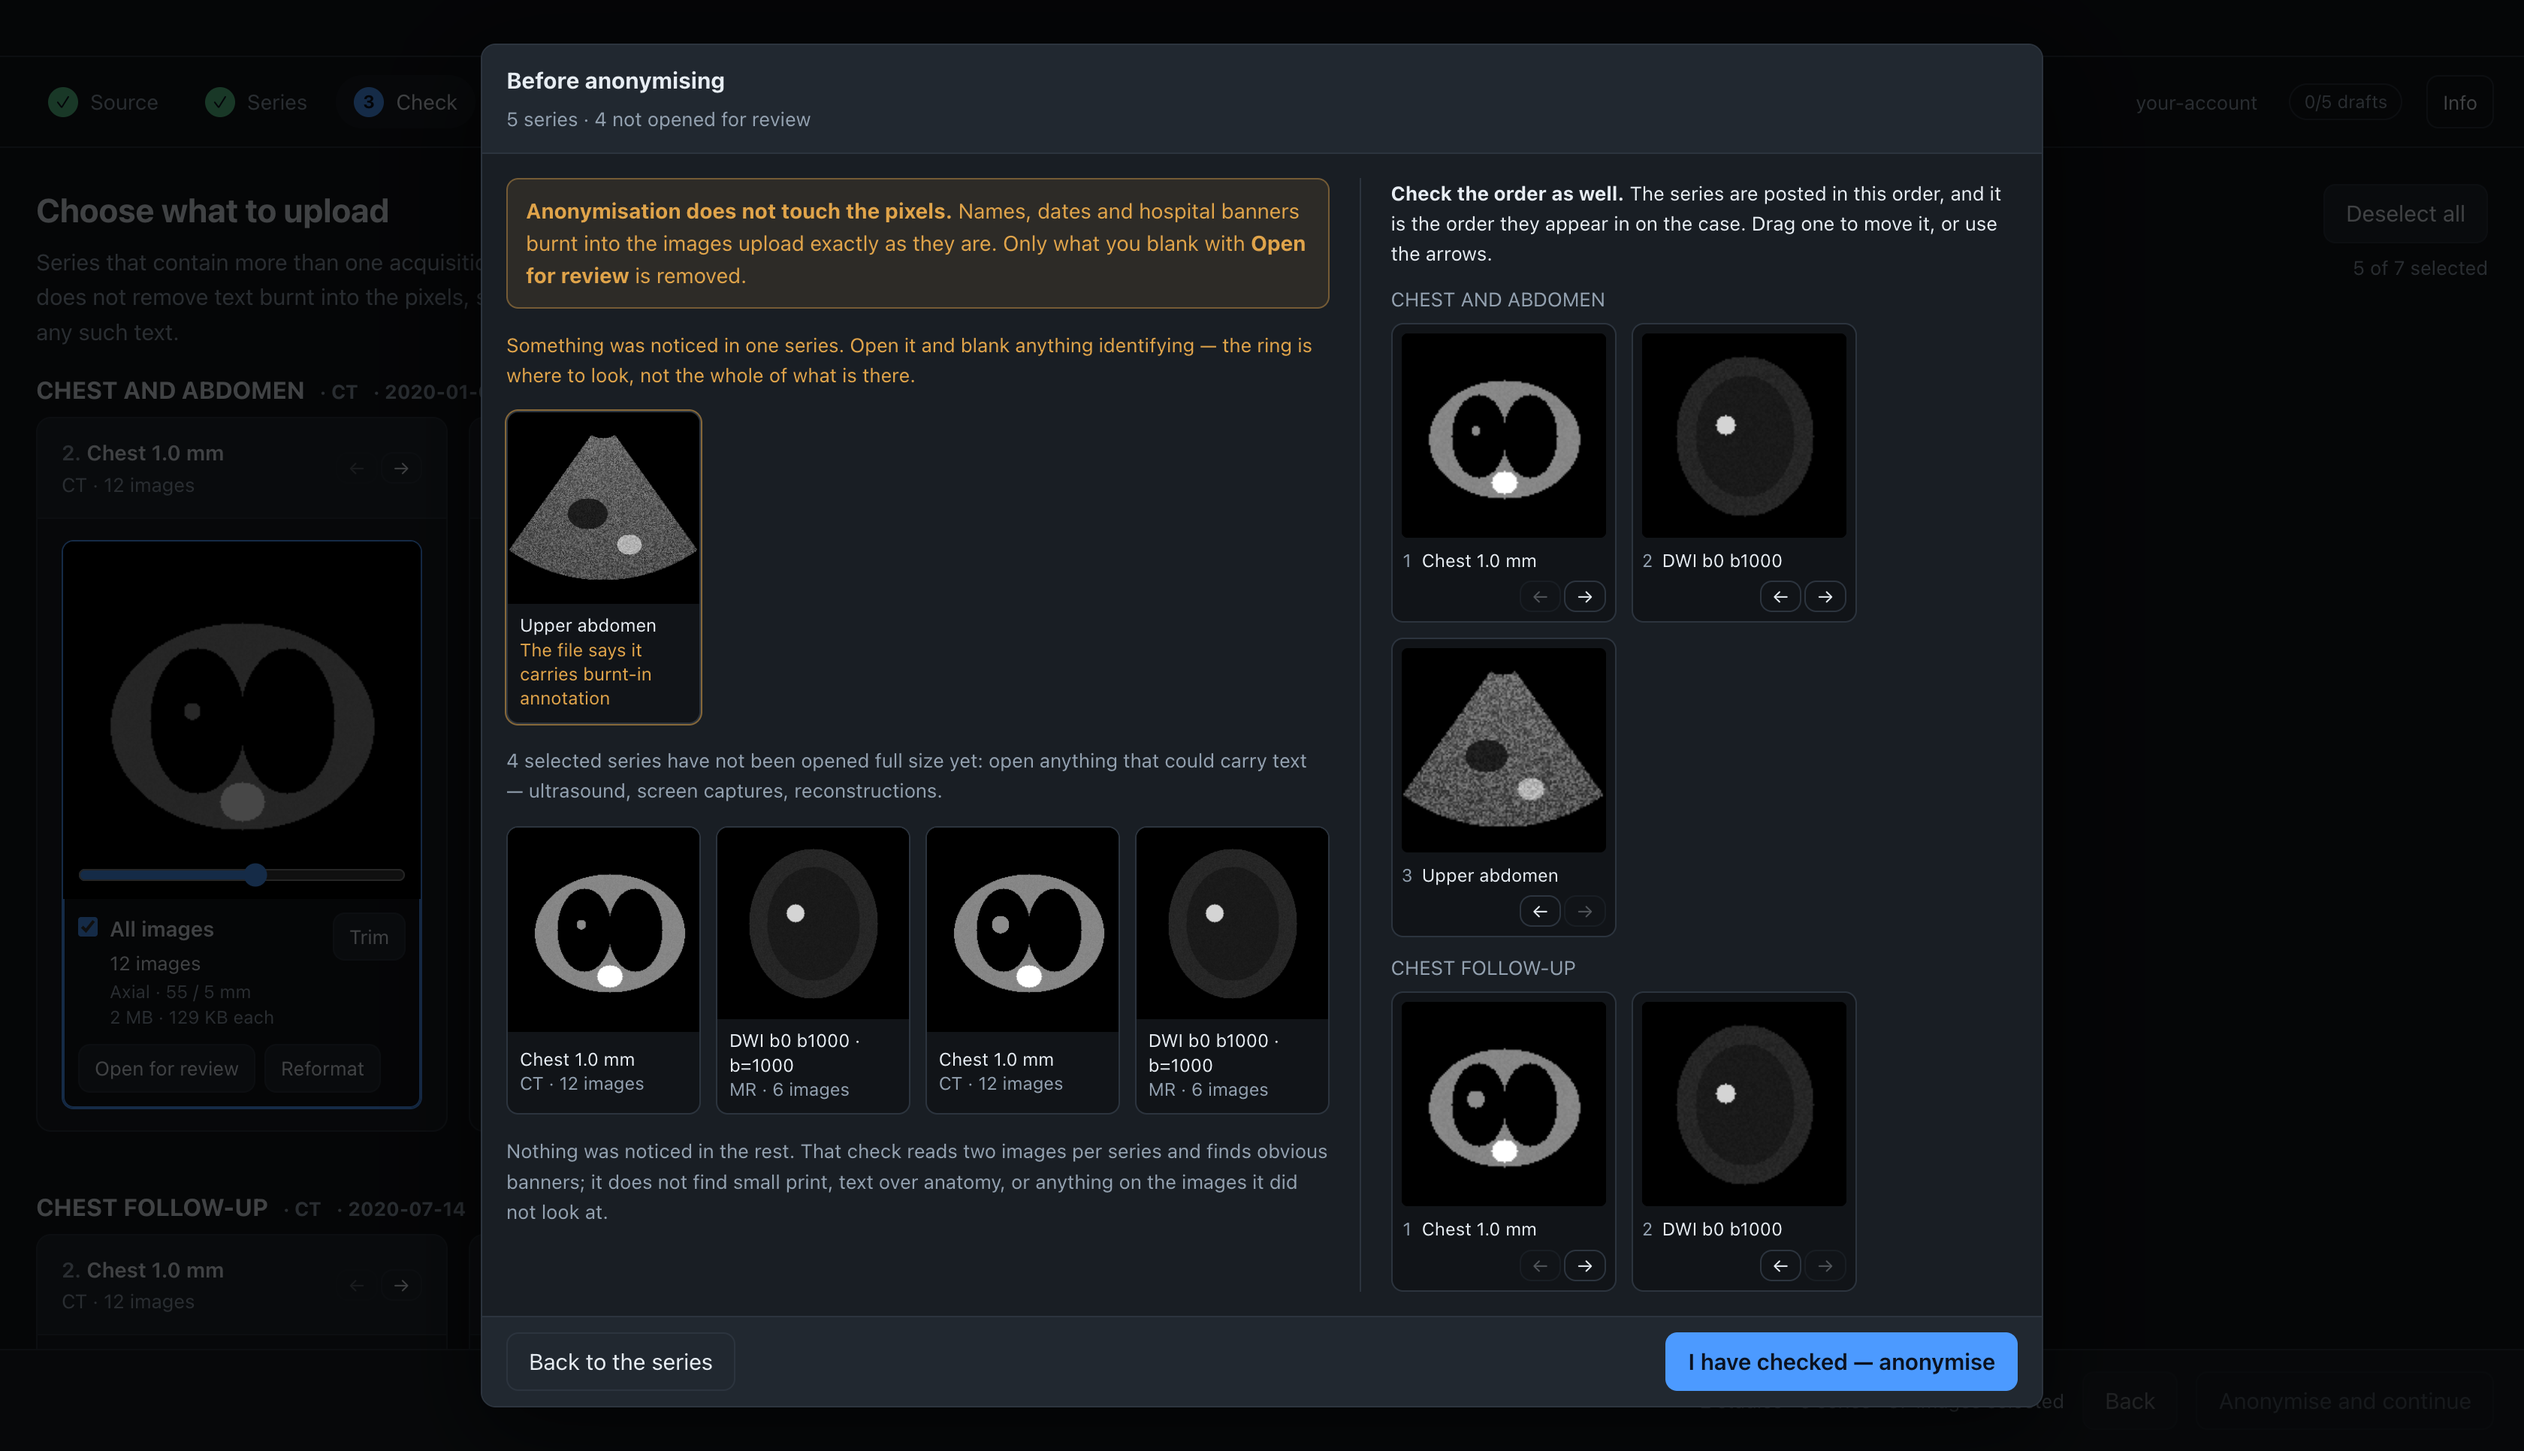
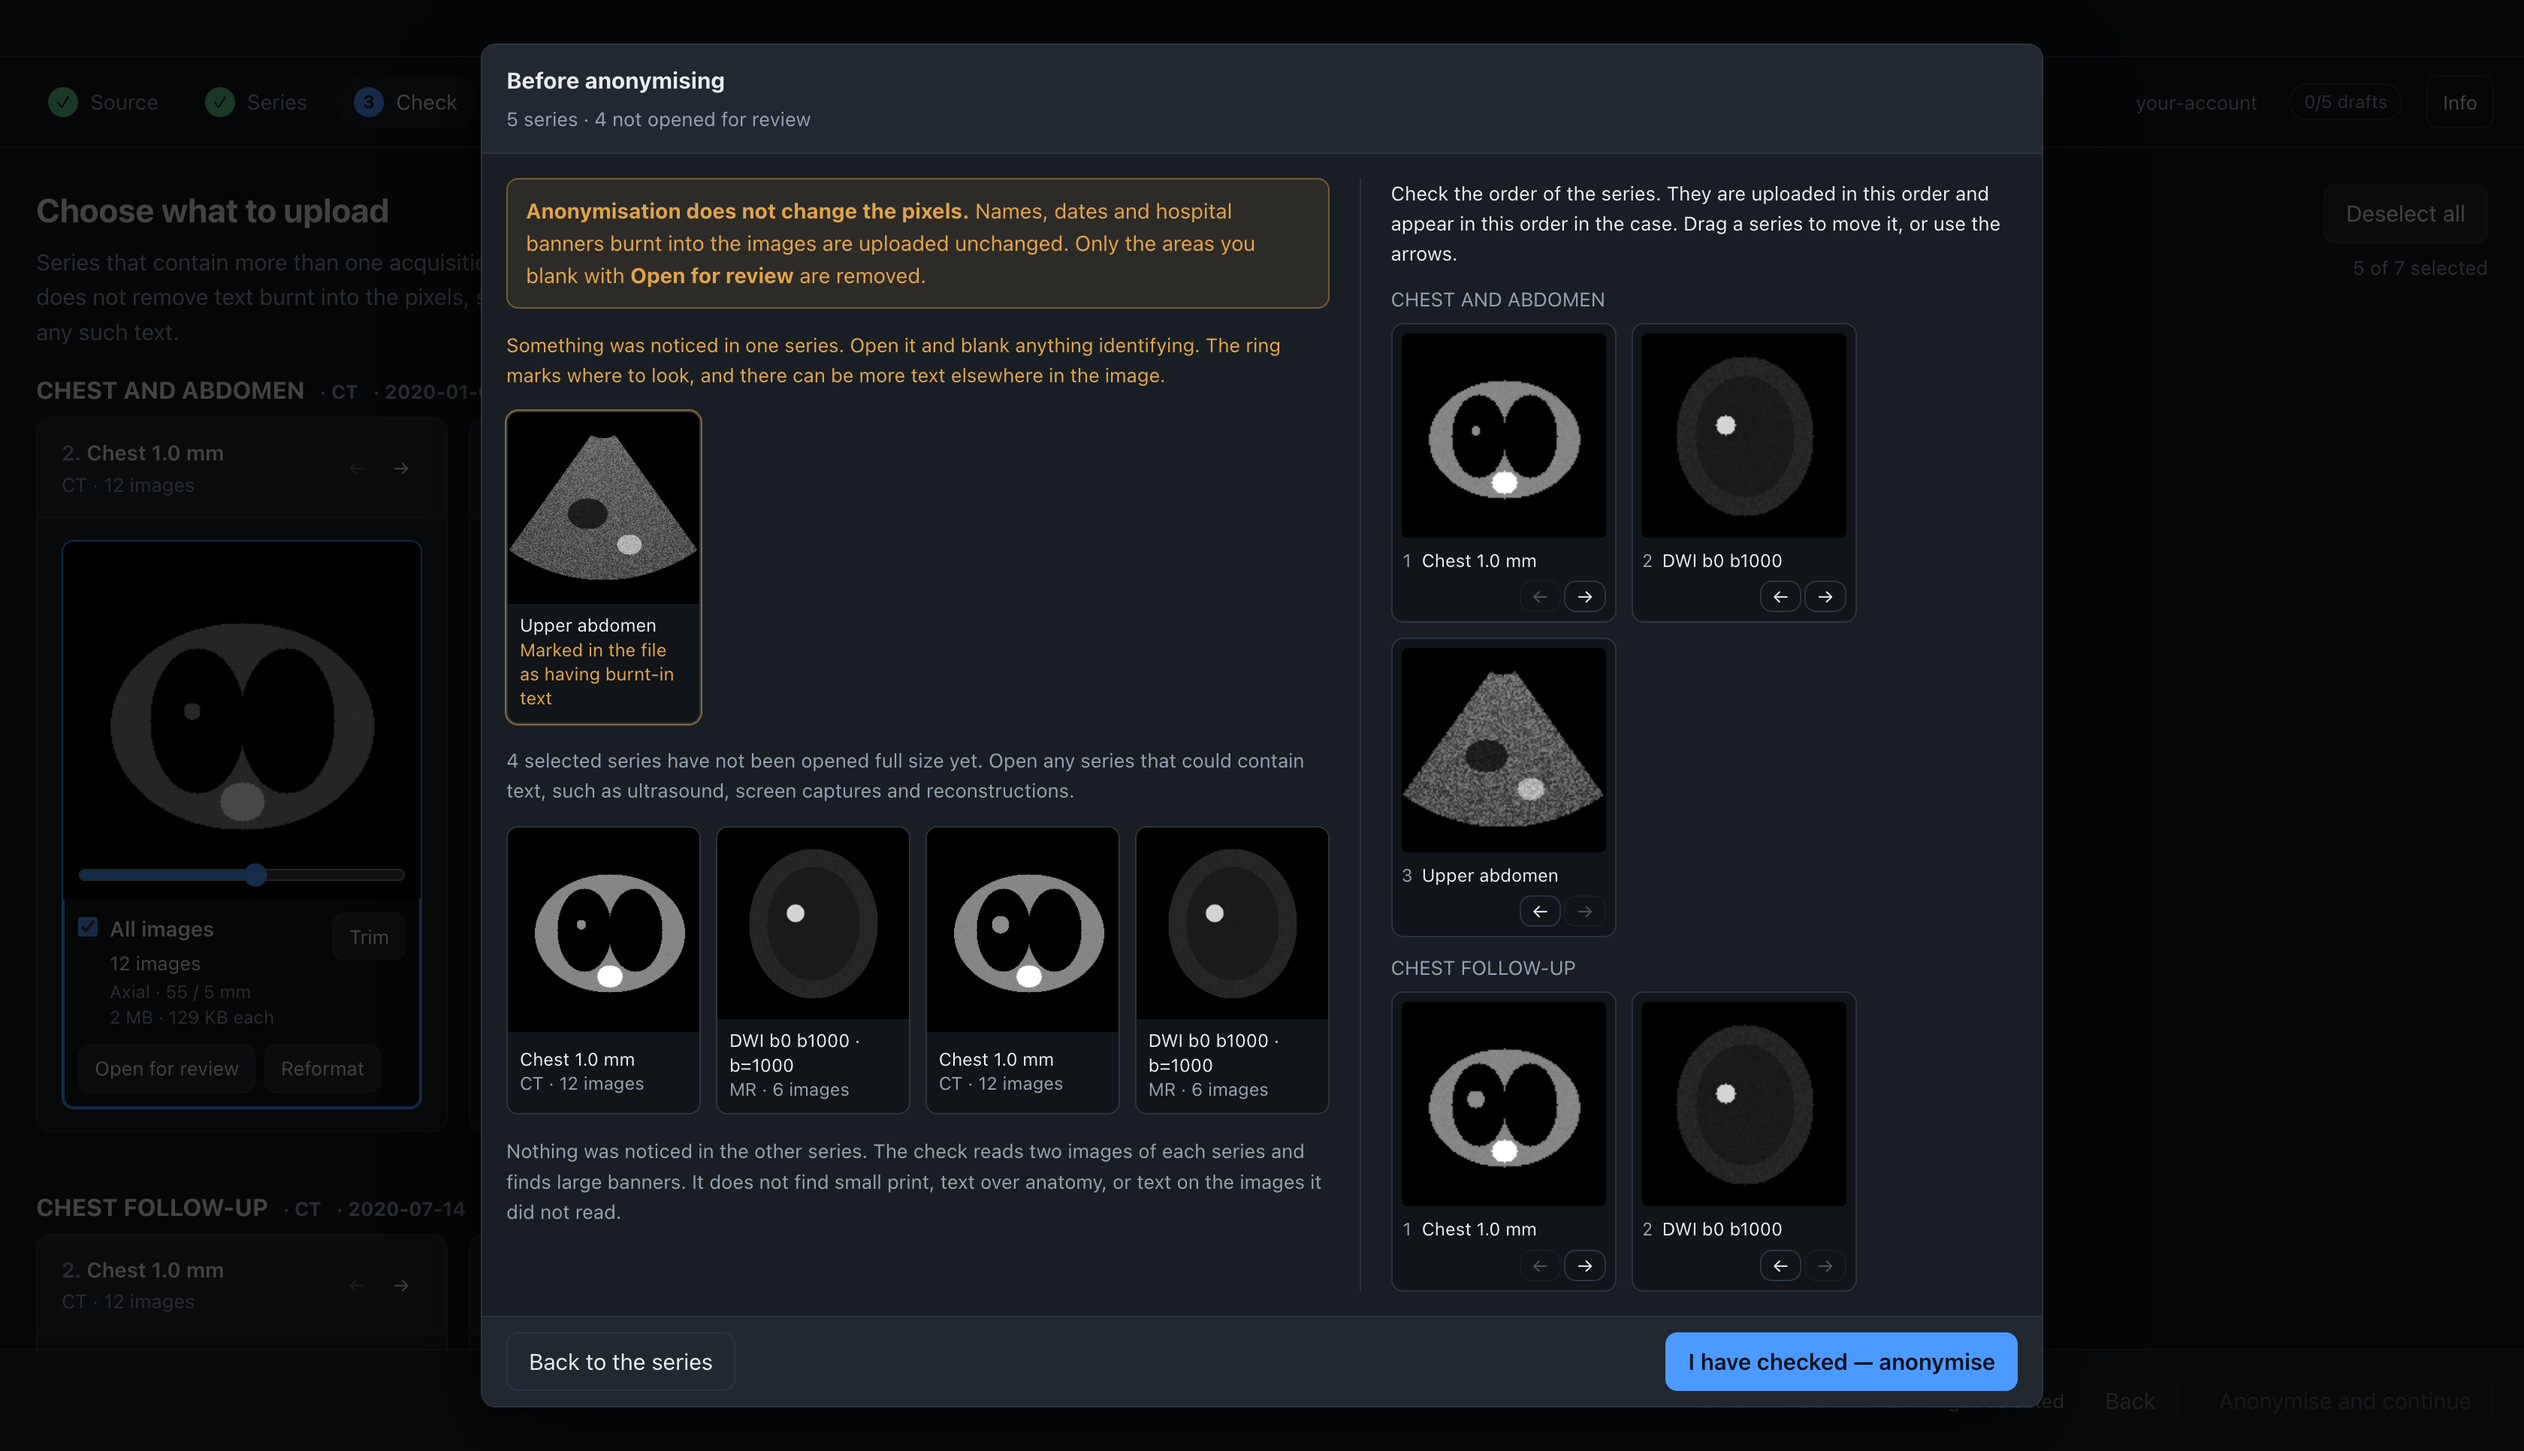
Rewrite the check before anonymising in plain language
The dialog loses its dashes and its contrasts, and the findings no longer
have the file saying things: "Marked in the file as having burnt-in text",
"Possible text in two places".

The closing line read "Nothing was noticed in the rest" also when nothing
had been noticed anywhere, which left "the rest" pointing at nothing. It
now says which it is, and still says what the check does not find, since
silence about a series is not a result.

diff --git a/src/renderer/src/components/BurnInCheck.tsx b/src/renderer/src/components/BurnInCheck.tsx
@@ -114,12 +114,12 @@ function drawOutline(canvas: HTMLCanvasElement, outline: MaskRect[] | undefined)
 
 /** What was noticed about one stack, in as few words as it can be put. */
 function findingText(finding: BurnInFinding): string {
-  if (finding.declared && finding.regions.length === 0) return 'The file says it carries burnt-in annotation'
+  if (finding.declared && finding.regions.length === 0) return 'Marked in the file as having burnt-in text'
   const places = finding.regions.length === 1 ? 'one place' : `${finding.regions.length} places`
-  const weaker = finding.compared < 2 ? ', from a single image' : ''
+  const weaker = finding.compared < 2 ? ' (one image only)' : ''
   return finding.declared
-    ? `The file says it carries annotation, and something looks like text in ${places}`
-    : `Looks like text in ${places}${weaker}`
+    ? `Marked in the file as having burnt-in text. Possible text in ${places}`
+    : `Possible text in ${places}${weaker}`
 }
 
 /**
@@ -163,8 +163,8 @@ function OrderCheck({
   return (
     <div className="order-check">
       <p className="small" style={{ margin: 0 }}>
-        <strong>Check the order as well.</strong> The series are posted in this order, and it is the order they appear
-        in on the case. Drag one to move it, or use the arrows.
+        Check the order of the series. They are uploaded in this order and appear in this order in the case. Drag a
+        series to move it, or use the arrows.
       </p>
       {studies.map((study) => (
         <div className="order-study" key={study.studyId}>
@@ -219,7 +219,7 @@ function OrderCheck({
                 <div className="order-foot">
                   {group.entries.length > 1 && (
                     <span className="muted order-note">
-                      {group.entries.length} image sets out of this series, moving together
+                      {group.entries.length} stacks from this series, moved together
                     </span>
                   )}
                   <span className="reorder">
@@ -318,13 +318,13 @@ export function BurnInCheck({
         <div className={`info-body check-body${reorderable ? ' split' : ''}`}>
           <div className="check-main">
             <div className="notice warn">
-              <strong>Anonymisation does not touch the pixels.</strong> Names, dates and hospital banners burnt into the
-              images upload exactly as they are. Only what you blank with <strong>Open for review</strong> is removed.
+              <strong>Anonymisation does not change the pixels.</strong> Names, dates and hospital banners burnt into the
+              images are uploaded unchanged. Only the areas you blank with <strong>Open for review</strong> are removed.
             </div>
 
             {findings === null && (
               <p className="muted small" style={{ margin: 0 }}>
-                Looking through the images for text…
+                Checking two images of each series for text…
               </p>
             )}
 
@@ -332,14 +332,15 @@ export function BurnInCheck({
               <>
                 <p className="small" style={{ margin: 0, color: 'var(--warn)' }}>
                   {flagged.length === 1 ? 'Something was noticed in one series' : `Something was noticed in ${flagged.length} series`}
-                  . Open it and blank anything identifying — the ring is where to look, not the whole of what is there.
+                  . Open it and blank anything identifying. The ring marks where to look, and there can be more text
+                  elsewhere in the image.
                 </p>
                 <div className="check-grid">
                   {flagged.map((entry) => (
                     <button
                       key={entry.stack.id}
                       className="check-item flagged"
-                      title="Open for review — blank out burnt-in text and set the contrast"
+                      title="Open to check the images, blank out burnt-in text, crop and set the contrast"
                       onClick={() => onOpen(entry)}
                     >
                       <Thumb entry={entry} outline={noticed.get(entry.stack.id)?.regions} />
@@ -357,16 +358,16 @@ export function BurnInCheck({
               <>
                 <p className="muted small" style={{ margin: 0 }}>
                   {stillUnseen.length === 1
-                    ? 'One selected series has not been opened full size yet:'
-                    : `${stillUnseen.length} selected series have not been opened full size yet:`}{' '}
-                  open anything that could carry text — ultrasound, screen captures, reconstructions.
+                    ? 'One selected series has not been opened full size yet.'
+                    : `${stillUnseen.length} selected series have not been opened full size yet.`}{' '}
+                  Open any series that could contain text, such as ultrasound, screen captures and reconstructions.
                 </p>
                 <div className="check-grid">
                   {stillUnseen.map((entry) => (
                     <button
                       key={entry.stack.id}
                       className="check-item"
-                      title="Open for review — blank out burnt-in text and set the contrast"
+                      title="Open to check the images, blank out burnt-in text, crop and set the contrast"
                       onClick={() => onOpen(entry)}
                     >
                       <Thumb entry={entry} />
@@ -382,16 +383,17 @@ export function BurnInCheck({
             ) : (
               unseen.length === 0 && (
                 <p className="muted small" style={{ margin: 0 }}>
-                  Every selected series has been opened full size. That is not the same as having read every image in
-                  them — go back if any of these carry text you have not looked for.
+                  Every selected series has been opened full size. Opening a series does not mean every image in it has
+                  been checked. Go back if any of them could contain text you have not looked for.
                 </p>
               )
             )}
 
             {findings !== null && (
               <p className="muted small" style={{ margin: 0 }}>
-                Nothing was noticed in the rest. That check reads two images per series and finds obvious banners; it
-                does not find small print, text over anatomy, or anything on the images it did not look at.
+                {flagged.length > 0 ? 'Nothing was noticed in the other series.' : 'Nothing was noticed.'} The check
+                reads two images of each series and finds large banners. It does not find small print, text over anatomy,
+                or text on the images it did not read.
               </p>
             )}
           </div>
